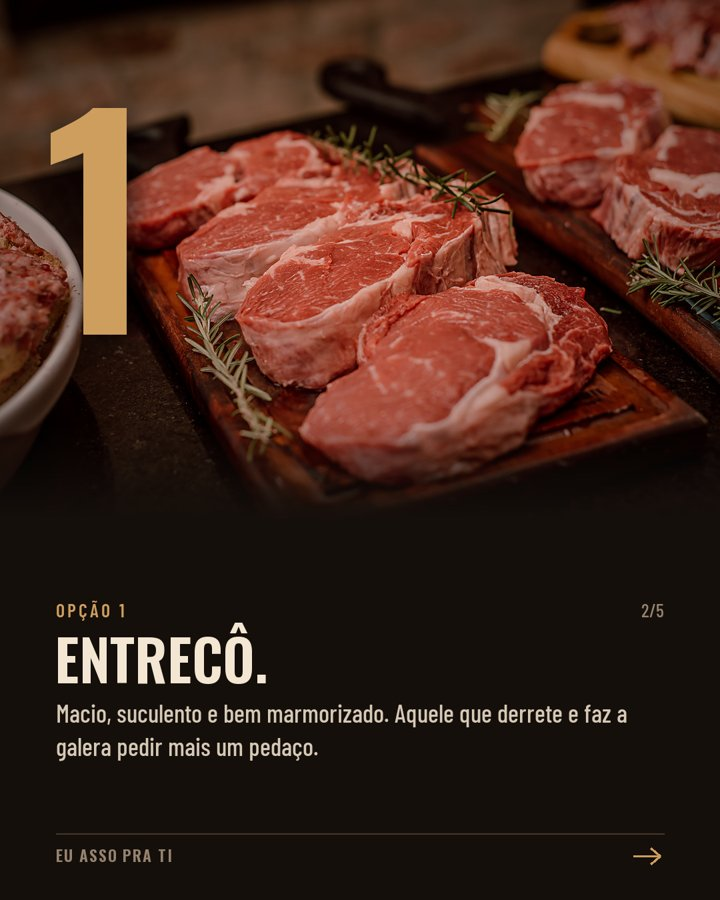
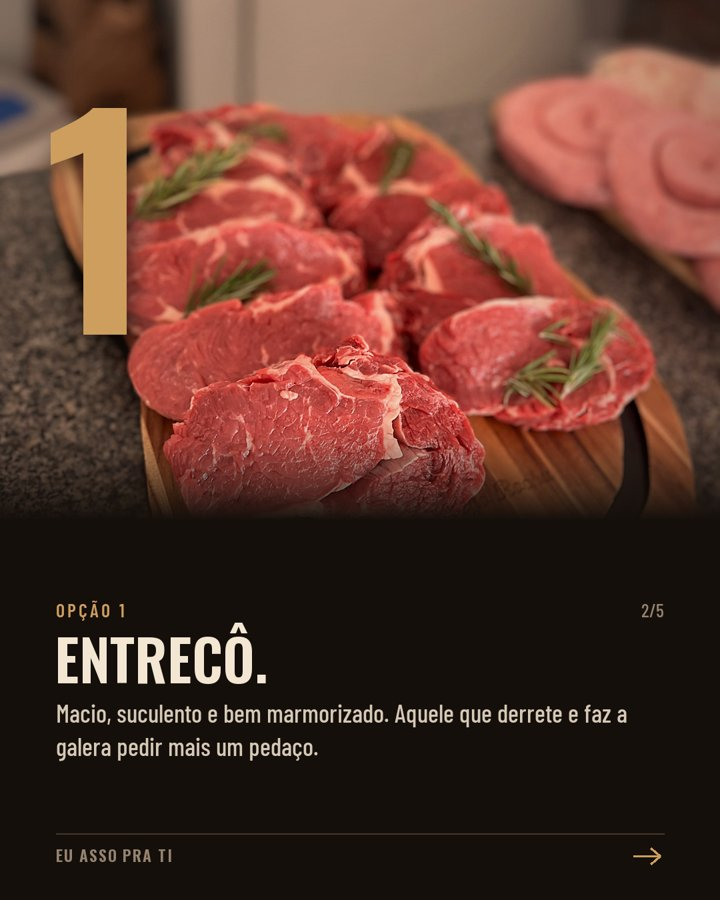
Post 15: fotos novas do entrecô e do matambrito à la pizza

diff --git a/calendario/index.html b/calendario/index.html
@@ -11,7 +11,7 @@
 --display:"Oswald","Arial Narrow",sans-serif;--label:"Barlow Condensed","Arial Narrow",sans-serif;--text:"Barlow",system-ui,sans-serif;color-scheme:dark}
 *{box-sizing:border-box}
 body{margin:0;background:var(--bg);color:var(--body);font:400 1.0625rem/1.6 var(--text)}
-.hero{position:relative;min-height:min(78vh,620px);display:grid;align-items:end;background:#000 url(img/p14-01.jpg?v=1793404952) center 40%/cover}
+.hero{position:relative;min-height:min(78vh,620px);display:grid;align-items:end;background:#000 url(img/p14-01.jpg?v=1793448185) center 40%/cover}
 .hero::after{content:"";position:absolute;inset:0;background:linear-gradient(180deg,rgba(21,15,11,.2) 0%,rgba(21,15,11,.55) 45%,var(--bg) 100%)}
 .hero .in{position:relative;z-index:1;max-width:760px;margin:0 auto;width:100%;padding:0 20px 36px}
 h1,h2{font-family:var(--display);font-weight:600;text-transform:uppercase;color:var(--fg);line-height:1.05;margin:0;text-wrap:balance}
@@ -79,7 +79,7 @@ footer{font:500 .9rem var(--label);color:var(--muted);letter-spacing:.06em;borde
   <ul class="dl">
     <li><b>Até segunda</b><span>Pitacos dos três posts, todos juntos numa mensagem.</span></li>
     <li><b>Post 13</b><span>Teu ok pra usar os comentários dos clientes (são públicos, mas é bom tu conferir se alguém se importaria).</span></li>
-    <li><b>Post 15</b><span>O terceiro corte tá como matambrito, com a foto dos mestres. Tu tem foto de matambrito de outro evento? Se não tiver, qual corte premium tu colocaria no lugar? Confere também os nomes do ancho e da costela.</span></li>
+    <li><b>Post 15</b><span>Já com os teus ajustes: entrecô, assado de tiras e o matambrito à la pizza, com a foto da tábua que tava na pasta.</span></li>
   </ul>
 </section>
 
@@ -88,12 +88,12 @@ footer{font:500 .9rem var(--label);color:var(--muted);letter-spacing:.06em;borde
   <h2>Post 13: quem provou, recomenda</h2>
   <p>Prova social no dia em que os anúncios começam. Os comentários reais da galera, no visual do Instagram: a formatura, o aniversário de 1 ano do último sábado e quem provou o choripan de focaccia. Fecha contigo sorrindo e chamando pro WhatsApp.</p>
   <div class="car" aria-label="Imagens do post 13">
-    <img src="img/p13-01.jpg?v=1793404952" alt="Capa: Quem provou, recomenda" loading="lazy">
-    <img src="img/p13-02.jpg?v=1793404952" alt="Formatura" loading="lazy">
-    <img src="img/p13-03.jpg?v=1793404952" alt="Aniversário de 1 ano" loading="lazy">
-    <img src="img/p13-04.jpg?v=1793404952" alt="A queridinha" loading="lazy">
-    <img src="img/p13-05.jpg?v=1793404952" alt="Sem palavras" loading="lazy">
-    <img src="img/p13-06.jpg?v=1793404952" alt="A próxima pode ser a tua" loading="lazy">
+    <img src="img/p13-01.jpg?v=1793448185" alt="Capa: Quem provou, recomenda" loading="lazy">
+    <img src="img/p13-02.jpg?v=1793448185" alt="Formatura" loading="lazy">
+    <img src="img/p13-03.jpg?v=1793448185" alt="Aniversário de 1 ano" loading="lazy">
+    <img src="img/p13-04.jpg?v=1793448185" alt="A queridinha" loading="lazy">
+    <img src="img/p13-05.jpg?v=1793448185" alt="Sem palavras" loading="lazy">
+    <img src="img/p13-06.jpg?v=1793448185" alt="A próxima pode ser a tua" loading="lazy">
   </div>
   <p class="hint">Arrasta para o lado para ver as 6 imagens.</p>
   <details><summary>Ver a legenda</summary><div class="cap">Quem provou, recomenda 🔥
@@ -118,12 +118,12 @@ Tem festa vindo aí? Me chama no WhatsApp pelo link da bio ou no (51) 99565-7817
   <h2>Post 14: como é o dia da tua festa</h2>
   <p>O passo a passo do dia, com uma linha do tempo no topo de cada card: tu chega antes, os cortes separados e temperados, o fogo, a carne servida quentinha na mesa e o cliente só aproveitando. Responde a dúvida de quem nunca contratou: "vai dar trabalho pra mim?".</p>
   <div class="car" aria-label="Imagens do post 14">
-    <img src="img/p14-01.jpg?v=1793404952" alt="Capa: Como é o dia da tua festa" loading="lazy">
-    <img src="img/p14-02.jpg?v=1793404952" alt="Eu chego antes" loading="lazy">
-    <img src="img/p14-03.jpg?v=1793404952" alt="Separados e temperados na hora" loading="lazy">
-    <img src="img/p14-04.jpg?v=1793404952" alt="O fogo no ponto certo" loading="lazy">
-    <img src="img/p14-05.jpg?v=1793404952" alt="Servido quentinho pra galera" loading="lazy">
-    <img src="img/p14-06.jpg?v=1793404952" alt="Tu só aproveita a festa" loading="lazy">
+    <img src="img/p14-01.jpg?v=1793448185" alt="Capa: Como é o dia da tua festa" loading="lazy">
+    <img src="img/p14-02.jpg?v=1793448185" alt="Eu chego antes" loading="lazy">
+    <img src="img/p14-03.jpg?v=1793448185" alt="Separados e temperados na hora" loading="lazy">
+    <img src="img/p14-04.jpg?v=1793448185" alt="O fogo no ponto certo" loading="lazy">
+    <img src="img/p14-05.jpg?v=1793448185" alt="Servido quentinho pra galera" loading="lazy">
+    <img src="img/p14-06.jpg?v=1793448185" alt="Tu só aproveita a festa" loading="lazy">
   </div>
   <p class="hint">Arrasta para o lado para ver as 6 imagens.</p>
   <details><summary>Ver a legenda</summary><div class="cap">Como é o dia da tua festa com o Eu Asso pra Ti? 🔥
@@ -150,11 +150,11 @@ Me chama no WhatsApp pelo link da bio ou no (51) 99565-7817 e me conta como tu i
   <h2>Post 15: qual corte não pode faltar?</h2>
   <p>Enquete pra galera comentar, no mesmo formato do post do sal, que foi o que mais deu conversa até agora. Três opções com número gigante, e a galera vota comentando 1, 2 ou 3.</p>
   <div class="car" aria-label="Imagens do post 15">
-    <img src="img/p15-01.jpg?v=1793404952" alt="Capa: Qual corte não pode faltar?" loading="lazy">
-    <img src="img/p15-02.jpg?v=1793404952" alt="Entrecô" loading="lazy">
-    <img src="img/p15-03.jpg?v=1793404952" alt="Assado de tiras" loading="lazy">
-    <img src="img/p15-04.jpg?v=1793404952" alt="Matambrito à la pizza" loading="lazy">
-    <img src="img/p15-05.jpg?v=1793404952" alt="Comenta o número do teu time" loading="lazy">
+    <img src="img/p15-01.jpg?v=1793448185" alt="Capa: Qual corte não pode faltar?" loading="lazy">
+    <img src="img/p15-02.jpg?v=1793448185" alt="Entrecô" loading="lazy">
+    <img src="img/p15-03.jpg?v=1793448185" alt="Assado de tiras" loading="lazy">
+    <img src="img/p15-04.jpg?v=1793448185" alt="Matambrito à la pizza" loading="lazy">
+    <img src="img/p15-05.jpg?v=1793448185" alt="Comenta o número do teu time" loading="lazy">
   </div>
   <p class="hint">Arrasta para o lado para ver as 5 imagens.</p>
   <details><summary>Ver a legenda</summary><div class="cap">Qual corte não pode faltar na tua festa? 🔥

diff --git a/semana/index.html b/semana/index.html
@@ -11,7 +11,7 @@
 --display:"Oswald","Arial Narrow",sans-serif;--label:"Barlow Condensed","Arial Narrow",sans-serif;--text:"Barlow",system-ui,sans-serif;color-scheme:dark}
 *{box-sizing:border-box}
 body{margin:0;background:var(--bg);color:var(--body);font:400 1.0625rem/1.6 var(--text)}
-.hero{position:relative;min-height:min(78vh,620px);display:grid;align-items:end;background:#000 url(img/p5-02.jpg?v=1793404952) center 40%/cover}
+.hero{position:relative;min-height:min(78vh,620px);display:grid;align-items:end;background:#000 url(img/p5-02.jpg?v=1793448185) center 40%/cover}
 .hero::after{content:"";position:absolute;inset:0;background:linear-gradient(180deg,rgba(21,15,11,.2) 0%,rgba(21,15,11,.55) 45%,var(--bg) 100%)}
 .hero .in{position:relative;z-index:1;max-width:760px;margin:0 auto;width:100%;padding:0 20px 36px}
 h1,h2{font-family:var(--display);font-weight:600;text-transform:uppercase;color:var(--fg);line-height:1.05;margin:0;text-wrap:balance}
@@ -81,13 +81,13 @@ footer{font:500 .9rem var(--label);color:var(--muted);letter-spacing:.06em;borde
   <h2>Post 5: gastronomia de fogo</h2>
   <p>Carrossel de 7 imagens: a carne de qualidade, cada uma no seu ponto, os legumes, o fatiado na hora, a sobremesa no fogo e o convite pra conversar.</p>
   <div class="car" aria-label="Imagens do post 5">
-    <img src="img/p5-01.jpg?v=1793404952" alt="Capa: Gastronomia de fogo" loading="lazy">
-    <img src="img/p5-02.jpg?v=1793404952" alt="Carne de qualidade" loading="lazy">
-    <img src="img/p5-03.jpg?v=1793404952" alt="Cada carne no seu ponto" loading="lazy">
-    <img src="img/p5-04.jpg?v=1793404952" alt="Os legumes também vão pro fogo" loading="lazy">
-    <img src="img/p5-05.jpg?v=1793404952" alt="Fatiado na hora" loading="lazy">
-    <img src="img/p5-06.jpg?v=1793404952" alt="E a sobremesa? No fogo, é claro" loading="lazy">
-    <img src="img/p5-07.jpg?v=1793404952" alt="Tem festa vindo aí?" loading="lazy">
+    <img src="img/p5-01.jpg?v=1793448185" alt="Capa: Gastronomia de fogo" loading="lazy">
+    <img src="img/p5-02.jpg?v=1793448185" alt="Carne de qualidade" loading="lazy">
+    <img src="img/p5-03.jpg?v=1793448185" alt="Cada carne no seu ponto" loading="lazy">
+    <img src="img/p5-04.jpg?v=1793448185" alt="Os legumes também vão pro fogo" loading="lazy">
+    <img src="img/p5-05.jpg?v=1793448185" alt="Fatiado na hora" loading="lazy">
+    <img src="img/p5-06.jpg?v=1793448185" alt="E a sobremesa? No fogo, é claro" loading="lazy">
+    <img src="img/p5-07.jpg?v=1793448185" alt="Tem festa vindo aí?" loading="lazy">
   </div>
   <p class="hint">Arrasta para o lado para ver as 7 imagens.</p>
   <details><summary>Ver a legenda</summary><div class="cap">Gastronomia de fogo 🔥 Eu cuido do fogo, tu aproveita a festa.
@@ -114,12 +114,12 @@ Me chama no WhatsApp pelo link da bio ou no (51) 99565-7817 e me conta como tu i
   <h2>Post 6: a tua festa, do teu jeito</h2>
   <p>Aqui não tem cardápio pronto: aniversário em casa, confraternização, casamento e formatura, cada um com o seu jeito. Fecha com "me conta a tua festa".</p>
   <div class="car" aria-label="Imagens do post 6">
-    <img src="img/p6-01.jpg?v=1793404952" alt="Capa: A tua festa, do teu jeito" loading="lazy">
-    <img src="img/p6-02.jpg?v=1793404952" alt="Pra família e os amigos" loading="lazy">
-    <img src="img/p6-03.jpg?v=1793404952" alt="Pra galera da empresa" loading="lazy">
-    <img src="img/p6-04.jpg?v=1793404952" alt="Pro dia que não volta" loading="lazy">
-    <img src="img/p6-05.jpg?v=1793404952" alt="Nada de cardápio pronto" loading="lazy">
-    <img src="img/p6-06.jpg?v=1793404952" alt="Me conta a tua festa" loading="lazy">
+    <img src="img/p6-01.jpg?v=1793448185" alt="Capa: A tua festa, do teu jeito" loading="lazy">
+    <img src="img/p6-02.jpg?v=1793448185" alt="Pra família e os amigos" loading="lazy">
+    <img src="img/p6-03.jpg?v=1793448185" alt="Pra galera da empresa" loading="lazy">
+    <img src="img/p6-04.jpg?v=1793448185" alt="Pro dia que não volta" loading="lazy">
+    <img src="img/p6-05.jpg?v=1793448185" alt="Nada de cardápio pronto" loading="lazy">
+    <img src="img/p6-06.jpg?v=1793448185" alt="Me conta a tua festa" loading="lazy">
   </div>
   <p class="hint">Arrasta para o lado para ver as 6 imagens.</p>
   <details><summary>Ver a legenda</summary><div class="cap">A tua festa, do teu jeito 🔥
@@ -144,7 +144,7 @@ Me chama no WhatsApp pelo link da bio ou no (51) 99565-7817 e me conta a tua fes
 <section>
   <div class="post-head"><p class="k" style="margin:0">Terça 13/10</p><span class="tag done">No ar</span></div>
   <h2>Post 4: o primeiro Reels</h2>
-  <video class="vid" src="video/p4-reels.mp4?v=1793404952" controls playsinline preload="metadata"></video>
+  <video class="vid" src="video/p4-reels.mp4?v=1793448185" controls playsinline preload="metadata"></video>
   <details><summary>Ver a legenda</summary><div class="cap">Quando tu chega, o fogo já tá pronto 🔥
 
 Eu chego bem antes pra preparar tudo: a carne de qualidade separada pra tua festa, o fogo no ponto certinho e tudo saindo da brasa direto pra tábua, servido quentinho pra galera.
